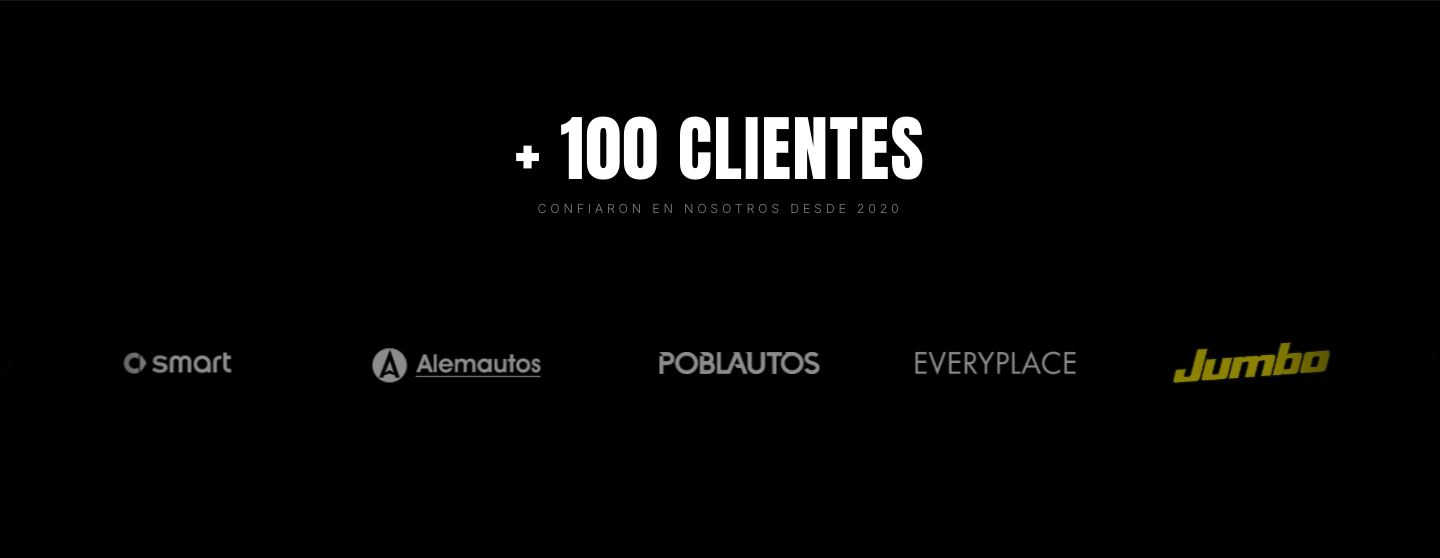
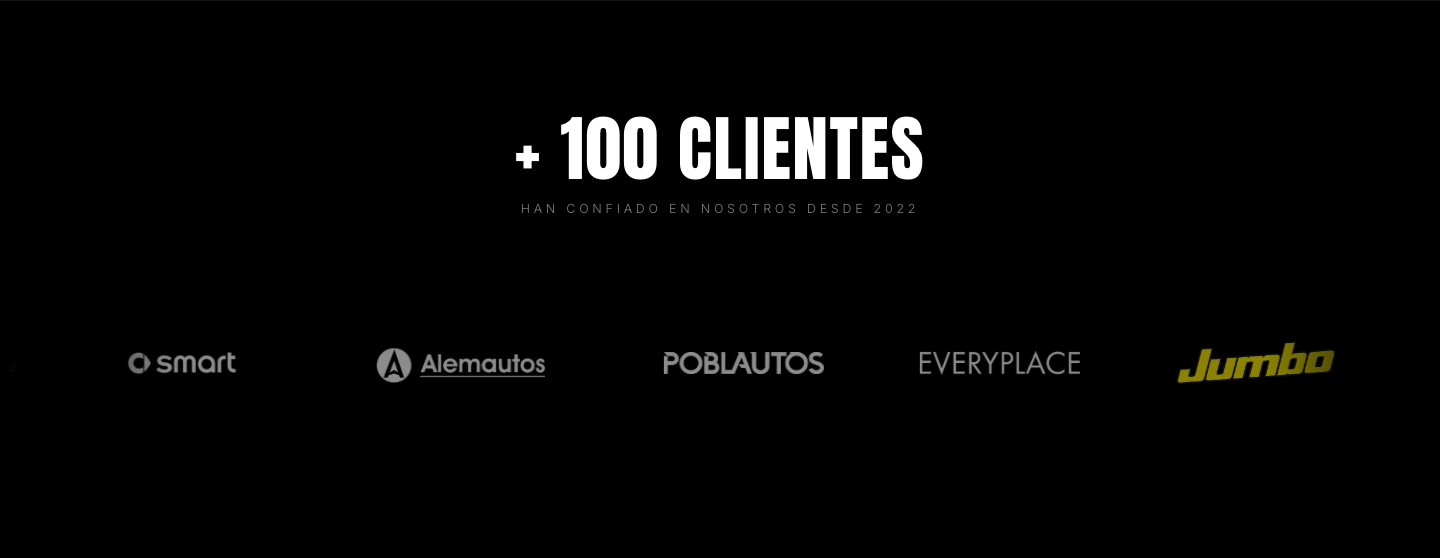
Apply feedback round 3: copy tweaks, full-bleed contacto, proceso bg slots
AJUSTAR:
- Hero: "marcas" → "empresas" in tagline
- +100 Clientes: label → "Han confiado en nosotros desde 2022"
- Sobre mí: removed the manifesto quote + signature block at the bottom
- Proceso: steps redesigned as tall (420px) cards with a per-step
  background-image layer (assets/proceso/01-05.jpg) + gradient overlay
  for legibility and hover zoom. Created assets/proceso/ folder. Falls
  back gracefully to dark bg until images are added.
- Contacto: now min-height:100vh flex column so it fills the viewport
  (was wasting ~25% vertical space); title scaled up; brand mark
  anchored to bottom. Real social links wired: Instagram
  (instagram.com/teo_visuals) + YouTube (m.youtube.com/@teovisuals).
  Removed TikTok (no handle provided).

ELIMINAR:
- Removed the homepage Proyectos masonry section + its dead render JS.
  Nav "Proyectos" now links to the standalone trabajos.html.

trabajos.html:
- Removed orientation filters (Verticales/Horizontales) and the
  orientation badge/corner dot on cards. Filters are now type-only
  (Todos / Automotriz / Marca / Corporativo); card badge shows category.

Synced capture-self.mjs + feedback.html to the new section set.

diff --git a/index.html b/index.html
@@ -681,28 +681,56 @@
       border-top: 1px solid var(--line);
     }
     .step {
+      position: relative;
+      min-height: 420px;
       padding: 2.5rem 1.5rem;
       border-right: 1px solid var(--line);
-      position: relative;
+      display: flex;
+      flex-direction: column;
+      justify-content: flex-end;
+      overflow: hidden;
+      background: #0a0a0a;
     }
     .step:last-child { border-right: none; }
+
+    /* Capa de imagen de fondo (opcional por paso) */
+    .step-bg {
+      position: absolute;
+      inset: 0;
+      background-size: cover;
+      background-position: center;
+      z-index: 0;
+      transition: transform 0.6s ease;
+      filter: grayscale(0.2);
+    }
+    .step:hover .step-bg { transform: scale(1.06); }
+    /* Degradado para legibilidad del texto */
+    .step::after {
+      content: '';
+      position: absolute;
+      inset: 0;
+      background: linear-gradient(to top, rgba(0,0,0,0.92) 0%, rgba(0,0,0,0.45) 45%, rgba(0,0,0,0.25) 100%);
+      z-index: 1;
+      pointer-events: none;
+    }
+    .step > *:not(.step-bg) { position: relative; z-index: 2; }
 
     .step-num {
       font-family: 'Anton', sans-serif;
       font-size: 2.5rem;
       letter-spacing: 0.02em;
-      opacity: 0.25;
-      margin-bottom: 1rem;
+      opacity: 0.45;
+      margin-bottom: 0.75rem;
     }
     .step-name {
       font-family: 'Anton', sans-serif;
-      font-size: 1rem;
+      font-size: 1.05rem;
       letter-spacing: 0.1em;
       margin-bottom: 0.6rem;
     }
     .step-desc {
       font-size: 0.8rem;
-      color: var(--muted);
+      color: rgba(255,255,255,0.7);
       line-height: 1.6;
     }
 
@@ -814,9 +842,20 @@
     /* ─── CTA / CONTACTO (Gakuyen-style) ─── */
     #contacto {
       border-top: 1px solid var(--line);
-      padding: 9rem 2.5rem 0;
+      padding: 8rem 2.5rem 0;
       position: relative;
       overflow: hidden;
+      min-height: 100vh;
+      display: flex;
+      flex-direction: column;
+    }
+    #contacto .container {
+      flex: 1;
+      display: flex;
+      flex-direction: column;
+      justify-content: center;
+      width: 100%;
+      max-width: 1500px;
     }
     .cta-pre {
       font-size: 0.78rem;
@@ -828,10 +867,9 @@
 
     .cta-title {
       font-family: 'Anton', sans-serif;
-      font-size: clamp(2.8rem, 8vw, 6.5rem);
+      font-size: clamp(3rem, 9vw, 8rem);
       letter-spacing: 0.01em;
       line-height: 1.05;
-      max-width: 1200px;
       margin-bottom: 4rem;
     }
     .cta-title .row {
@@ -905,13 +943,13 @@
     /* Mega brand mark */
     .brand-mark {
       font-family: 'Anton', sans-serif;
-      font-size: clamp(7rem, 22vw, 22rem);
+      font-size: clamp(7rem, 23vw, 26rem);
       letter-spacing: 0.04em;
-      line-height: 0.85;
+      line-height: 0.82;
       white-space: nowrap;
       text-align: center;
-      margin-top: 3rem;
-      margin-bottom: -3vw;
+      margin-top: auto;
+      margin-bottom: -2.5vw;
       background: linear-gradient(180deg, rgba(255,255,255,0.95) 0%, rgba(255,255,255,0.1) 100%);
       -webkit-background-clip: text;
       -webkit-text-fill-color: transparent;
@@ -986,7 +1024,7 @@
   <a href="#hero" class="logo">TEO <span>VISUALS</span></a>
   <ul class="nav-links" id="navLinks">
     <li><a href="#clientes">Clientes</a></li>
-    <li><a href="#proyectos">Proyectos</a></li>
+    <li><a href="trabajos.html">Proyectos</a></li>
     <li><a href="#sobre">Sobre mí</a></li>
     <li><a href="#proceso">Proceso</a></li>
     <li><a href="#contacto">Contacto</a></li>
@@ -1002,7 +1040,7 @@
     <div class="hero-eyebrow">Producción audiovisual estratégica · Medellín</div>
     <h1 class="hero-title">TEO VISUALS</h1>
     <p class="hero-sub">
-      Videos estratégicos para marcas que quieren comunicar mejor, verse más profesionales y vender más.
+      Videos estratégicos para empresas que quieren comunicar mejor, verse más profesionales y vender más.
     </p>
   </div>
   <div class="hero-scroll">Scroll ↓</div>
@@ -1012,7 +1050,7 @@
 <section id="clientes">
   <div class="clientes-head reveal">
     <div class="clientes-num">+ 100 CLIENTES</div>
-    <div class="clientes-label">Confiaron en nosotros desde 2020</div>
+    <div class="clientes-label">Han confiado en nosotros desde 2022</div>
   </div>
 
   <!-- Marquee infinita: la lista se duplica en HTML para crear el loop -->
@@ -1034,20 +1072,6 @@
       <div class="logo-slot" aria-hidden="true"><img src="assets/logos/Logo Everyplace.png" alt=""></div>
       <div class="logo-slot color" aria-hidden="true"><img src="assets/logos/Jumbo.png" alt=""></div>
       <div class="logo-slot color" aria-hidden="true"><img src="assets/logos/Chocolatesjet.webp" alt=""></div>
-    </div>
-  </div>
-</section>
-
-<!-- PROYECTOS -->
-<section id="proyectos" class="section-pad">
-  <div class="container">
-    <div class="section-head reveal">
-      <span class="section-num">02 — Proyectos</span>
-      <h2 class="section-title">Trabajo seleccionado</h2>
-    </div>
-    <div class="hp-grid" id="hpGrid"></div>
-    <div class="view-more-row reveal">
-      <a href="trabajos.html" class="view-more">Ver todos los proyectos →</a>
     </div>
   </div>
 </section>
@@ -1075,12 +1099,6 @@
           Mi trabajo no es solo grabar y editar. Es <strong>entender qué necesita comunicar tu marca</strong> y construir las piezas audiovisuales que lo hagan posible — con criterio cinematográfico y mentalidad de resultados.
         </p>
       </div>
-
-      <p class="about-quote">
-        No hacemos videos por hacerlos.<br>
-        <em>Creamos contenido pensado para atraer, generar confianza y apoyar tus objetivos comerciales.</em>
-      </p>
-      <div class="about-sig">Mateo Escobar · Teo Visuals</div>
     </div>
   </div>
 </section>
@@ -1095,26 +1113,31 @@
 
     <div class="proceso-steps">
       <div class="step reveal">
+        <div class="step-bg" style="background-image:url('assets/proceso/01.jpg')"></div>
         <div class="step-num">01</div>
         <div class="step-name">DIAGNÓSTICO</div>
         <div class="step-desc">Entendemos tu marca, tu cliente ideal y qué problema quieres resolver con video.</div>
       </div>
       <div class="step reveal">
+        <div class="step-bg" style="background-image:url('assets/proceso/02.jpg')"></div>
         <div class="step-num">02</div>
         <div class="step-name">ESTRATEGIA</div>
         <div class="step-desc">Plan de contenido, calendario y guiones alineados a tus objetivos comerciales.</div>
       </div>
       <div class="step reveal">
+        <div class="step-bg" style="background-image:url('assets/proceso/03.jpg')"></div>
         <div class="step-num">03</div>
         <div class="step-name">PRODUCCIÓN</div>
         <div class="step-desc">Grabación con dirección creativa, criterio visual y atención al detalle.</div>
       </div>
       <div class="step reveal">
+        <div class="step-bg" style="background-image:url('assets/proceso/04.jpg')"></div>
         <div class="step-num">04</div>
         <div class="step-name">ENTREGA</div>
         <div class="step-desc">Edición, color, subtítulos y formatos listos para publicar.</div>
       </div>
       <div class="step reveal">
+        <div class="step-bg" style="background-image:url('assets/proceso/05.jpg')"></div>
         <div class="step-num">05</div>
         <div class="step-name">OPTIMIZACIÓN</div>
         <div class="step-desc">Análisis mensual de resultados y mejora continua mes a mes.</div>
@@ -1147,14 +1170,11 @@
       <div class="cta-info-block">
         <div class="label">Social</div>
         <div class="socials">
-          <a href="#" class="social-link" aria-label="Instagram">
+          <a href="https://instagram.com/teo_visuals" target="_blank" rel="noopener" class="social-link" aria-label="Instagram">
             <svg viewBox="0 0 24 24" fill="none" stroke="currentColor" stroke-width="1.8"><rect x="3" y="3" width="18" height="18" rx="5"/><circle cx="12" cy="12" r="4"/><circle cx="17.5" cy="6.5" r="1" fill="currentColor"/></svg>
           </a>
-          <a href="#" class="social-link" aria-label="YouTube">
+          <a href="https://m.youtube.com/@teovisuals" target="_blank" rel="noopener" class="social-link" aria-label="YouTube">
             <svg viewBox="0 0 24 24" fill="currentColor"><path d="M23.5 6.2a3 3 0 0 0-2.1-2.1C19.5 3.5 12 3.5 12 3.5s-7.5 0-9.4.6A3 3 0 0 0 .5 6.2C0 8.1 0 12 0 12s0 3.9.5 5.8a3 3 0 0 0 2.1 2.1c1.9.6 9.4.6 9.4.6s7.5 0 9.4-.6a3 3 0 0 0 2.1-2.1c.5-1.9.5-5.8.5-5.8s0-3.9-.5-5.8zM9.6 15.6V8.4l6.4 3.6-6.4 3.6z"/></svg>
-          </a>
-          <a href="#" class="social-link" aria-label="TikTok">
-            <svg viewBox="0 0 24 24" fill="currentColor"><path d="M19.59 6.69a4.83 4.83 0 0 1-3.77-4.25V2h-3.45v13.67a2.89 2.89 0 0 1-5.2 1.74 2.89 2.89 0 0 1 2.31-4.64 2.93 2.93 0 0 1 .88.13V9.4a6.84 6.84 0 0 0-1-.05A6.33 6.33 0 0 0 5.8 20.1a6.34 6.34 0 0 0 10.86-4.43v-7a8.16 8.16 0 0 0 4.77 1.52v-3.4a4.85 4.85 0 0 1-1.84-.1z"/></svg>
           </a>
         </div>
       </div>
@@ -1189,46 +1209,6 @@
     a.addEventListener('click', () => document.getElementById('navLinks').classList.remove('open'));
   });
 
-  /* ── Proyectos: masonry preview (mismo set que trabajos.html) ── */
-  const HP_WORKS = [
-    { title: 'Alemautos × Pajón', catLabel: 'Automotriz · Mercedes-Benz', orientation: 'horizontal', video: 'assets/videos/AlemautosXAndresPajon V4.mp4', poster: 'assets/thumbnails/01-alemautos-mercedes.jpg' },
-    { title: 'Reel automotriz',   catLabel: 'Automotriz · Reel',          orientation: 'vertical',   video: null, poster: null },
-    { title: 'Fashion film',      catLabel: 'Marca · Film',               orientation: 'horizontal', video: null, poster: null },
-    { title: 'Producto',          catLabel: 'Marca · Producto',           orientation: 'vertical',   video: null, poster: null },
-    { title: 'Video corporativo', catLabel: 'Corporativo · Institucional',orientation: 'horizontal', video: null, poster: null },
-    { title: 'Reel de marca',     catLabel: 'Marca · Reel',               orientation: 'vertical',   video: null, poster: null },
-  ];
-  const HP_RATIO = { vertical: '9 / 16', horizontal: '16 / 9' };
-  const hpGrid = document.getElementById('hpGrid');
-  if (hpGrid) {
-    HP_WORKS.forEach(w => {
-      const card = document.createElement('a');
-      card.className = 'hp-card' + (w.video || w.poster ? '' : ' is-ph');
-      card.href = 'trabajos.html';
-      const ratio = HP_RATIO[w.orientation] || '16 / 9';
-      const orient = w.orientation === 'vertical' ? 'Vertical' : 'Horizontal';
-      let inner;
-      if (w.video)       inner = `<video src="${w.video}" muted loop playsinline preload="metadata" ${w.poster?`poster="${w.poster}"`:''}></video>`;
-      else if (w.poster) inner = `<img src="${w.poster}" alt="${w.title}">`;
-      else               inner = `<span class="hp-ph-mark">${w.orientation==='vertical'?'9:16':'16:9'}</span>`;
-      card.innerHTML = `
-        <span class="hp-orient">${orient}</span>
-        <div class="hp-media" style="aspect-ratio:${ratio}">${inner}</div>
-        <div class="hp-overlay">
-          <span class="hp-badge">${orient}</span>
-          <div class="hp-bottom">
-            <div class="hp-cat">${w.catLabel}</div>
-            <div class="hp-title">${w.title}</div>
-          </div>
-        </div>`;
-      if (w.video) {
-        const v = card.querySelector('video');
-        card.addEventListener('mouseenter', () => v.play().catch(()=>{}));
-        card.addEventListener('mouseleave', () => { v.pause(); v.currentTime = 0; });
-      }
-      hpGrid.appendChild(card);
-    });
-  }
 </script>
 </body>
 </html>

diff --git a/feedback.html b/feedback.html
@@ -334,13 +334,12 @@
 
 <script>
 const SECTIONS = [
-  { id: 'hero',     name: 'Hero',                img: 'feedback-shots/hero.png',     desc: 'Portada cinematográfica: "TEO VISUALS" sobre fondo oscuro, tagline y nav.' },
-  { id: 'clientes', name: '+100 Clientes',       img: 'feedback-shots/clientes.png', desc: 'Marquee infinito con los 7 logos reales.' },
-  { id: 'proyectos',name: 'Proyectos',           img: 'feedback-shots/proyectos.png',desc: 'Grid masonry irregular (vertical + horizontal) con la pieza real + "Ver todos".' },
-  { id: 'sobre',    name: 'Sobre mí',            img: 'feedback-shots/sobre.png',    desc: 'Foto con gimbal en Cerro Vento + bio + manifiesto.' },
-  { id: 'proceso',  name: 'Proceso',             img: 'feedback-shots/proceso.png',  desc: 'Los 5 pasos: Diagnóstico → Optimización.' },
-  { id: 'contacto', name: 'Contacto + Footer',   img: 'feedback-shots/contacto.png', desc: 'CTA con tipografía gigante tachada en diagonal + brand mark "TEO VISUALS".' },
-  { id: 'trabajos', name: 'Página de Trabajos (completa)', img: 'feedback-shots/trabajos.png', desc: 'Página completa trabajos.html con filtros y lightbox.' },
+  { id: 'hero',     name: 'Hero',                img: 'feedback-shots/hero.png',     desc: 'Portada cinematográfica: "TEO VISUALS" sobre fondo oscuro, tagline ("empresas") y nav.' },
+  { id: 'clientes', name: '+100 Clientes',       img: 'feedback-shots/clientes.png', desc: 'Marquee infinito con los 7 logos reales. "Han confiado en nosotros desde 2022".' },
+  { id: 'sobre',    name: 'Sobre mí',            img: 'feedback-shots/sobre.png',    desc: 'Foto con gimbal en Cerro Vento + bio (sin manifiesto al final).' },
+  { id: 'proceso',  name: 'Proceso',             img: 'feedback-shots/proceso.png',  desc: 'Los 5 pasos con tarjetas altas listas para imágenes de fondo (assets/proceso/).' },
+  { id: 'contacto', name: 'Contacto + Footer',   img: 'feedback-shots/contacto.png', desc: 'CTA a pantalla completa, tachado diagonal, redes IG+YT, brand mark gigante.' },
+  { id: 'trabajos', name: 'Página de Proyectos', img: 'feedback-shots/trabajos.png', desc: 'trabajos.html — grid masonry con filtros por tipo (Automotriz/Marca/Corporativo).' },
 ];
 
 const KEY = 'teo-self-feedback-v1';

diff --git a/trabajos.html b/trabajos.html
@@ -371,8 +371,6 @@
 <!-- FILTERS -->
 <div class="filters" id="filters">
   <button class="filter-btn active" data-filter="all">Todos</button>
-  <button class="filter-btn" data-filter="vertical">Verticales</button>
-  <button class="filter-btn" data-filter="horizontal">Horizontales</button>
   <button class="filter-btn" data-filter="automotriz">Automotriz</button>
   <button class="filter-btn" data-filter="marca">Marca</button>
   <button class="filter-btn" data-filter="corporativo">Corporativo</button>
@@ -459,13 +457,12 @@ WORKS.forEach((w, i) => {
   }
 
   card.innerHTML = `
-    <span class="orient-dot">${orientLabel}</span>
     <div class="card-media" style="aspect-ratio:${ratio}">
       ${mediaInner}
     </div>
     <div class="card-overlay">
       <div class="card-top">
-        <span class="badge">${orientLabel}</span>
+        <span class="badge">${w.catLabel}</span>
         ${w.video ? `<span class="play-icon"><svg viewBox="0 0 24 24" fill="currentColor"><path d="M8 5v14l11-7z"/></svg></span>` : ''}
       </div>
       <div class="card-bottom">
